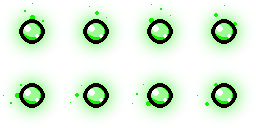
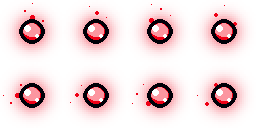
v0.37.13

diff --git a/HISTORY.md b/HISTORY.md
@@ -2,6 +2,7 @@
 
 ### *v0.37.12* - May 31st, 2019
 
+* Changed the Mysterious Liquid costume and tears effect from green to red in order to match the new creep color. (Thanks Thoday)
 * Added Caves / Catacombs / Flooded Caves room #488 to the Forgotten softlock list. (Thanks AshDown)
 * Fixed the bug where the Basement 1 Treasure Room icon would appear on the map when it was banned when it was attached to the starting room.
 * Fixed the bug where replaced pedestal sprites would not match the original sprite.
